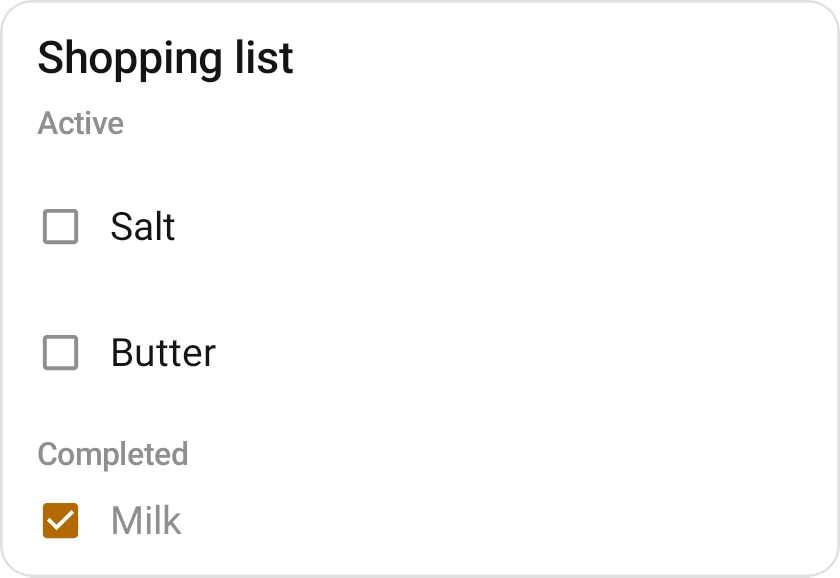
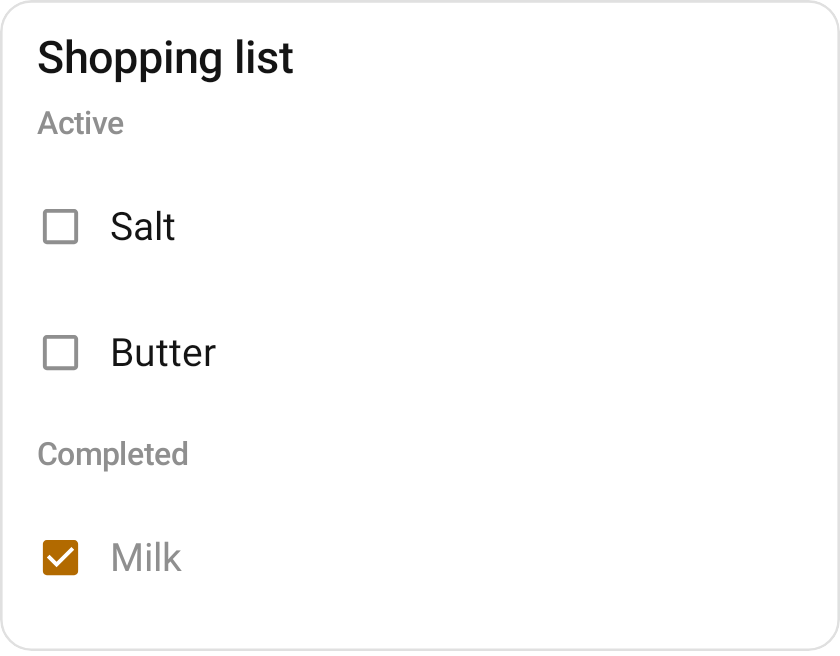
fix(cards): size the to-do card hint from its rows
naturalHeightDp was a flat 220dp, so a host capturing at the hint
clipped lists whose 48dp rows ran past it. Compute it from the title,
section captions and item rows, and grow the to-do previews to the
card's height.

Claude-Session: https://claude.ai/code/session_01Ki46Hoon14u8HBTA815hh9

diff --git a/rc-converter/src/test/kotlin/ee/schimke/ha/rc/CardTouchTargetTest.kt b/rc-converter/src/test/kotlin/ee/schimke/ha/rc/CardTouchTargetTest.kt
@@ -16,6 +16,7 @@ import androidx.compose.ui.unit.dp
 import ee.schimke.ha.model.CardConfig
 import ee.schimke.ha.model.EntityState
 import ee.schimke.ha.model.HaSnapshot
+import ee.schimke.ha.rc.cards.TodoListCardConverter
 import ee.schimke.ha.rc.cards.defaultRegistry
 import ee.schimke.ha.rc.components.ProvideHaTheme
 import ee.schimke.ha.rc.components.ThemeStyle
@@ -76,6 +77,18 @@ class CardTouchTargetTest {
                   }
                 ),
             ),
+            state(
+              "todo.chores",
+              "4",
+              name("Chores"),
+              "items" to
+                JsonArray(
+                  listOf("Bins", "Dishes", "Laundry", "Plants", "Hoover").mapIndexed { i, s ->
+                    val st = if (i < 4) "needs_action" else "completed"
+                    JsonObject(mapOf("summary" to JsonPrimitive(s), "status" to JsonPrimitive(st)))
+                  }
+                ),
+            ),
             state("light.living_room_lamp", "on", name("Lamp")),
             state("light.kitchen_lights", "off", name("Kitchen")),
             state(
@@ -107,7 +120,7 @@ class CardTouchTargetTest {
     compose.setContent {
       Box(Modifier.background(Color.White).width(381.dp)) {
         CachedCardPreview(
-          cacheKey = "touch-target-${card.type}",
+          cacheKey = "touch-target-${card.raw}",
           profile = androidXExperimentalWrap,
           card = card,
           snapshot = snapshot,
@@ -156,6 +169,17 @@ class CardTouchTargetTest {
       """{"type":"todo-list","entity":"todo.shopping","title":"Shopping list"}""",
       2,
     )
+
+  @Test
+  fun todoListSizeHintHoldsEveryRow() {
+    val card = card("""{"type":"todo-list","entity":"todo.chores","title":"Chores"}""")
+    val hint = TodoListCardConverter().naturalHeightDp(card, snapshot)
+    tapTargets(card)
+    val root = compose.onRoot().fetchSemanticsNode()
+    val drawnDp = root.size.height / root.layoutInfo.density.density
+    assertTrue(drawnDp <= hint, "five 48dp rows (${drawnDp}dp) fit the ${hint}dp size hint")
+    assertTrue(hint - drawnDp < 12f, "the ${hint}dp size hint is close to the card (${drawnDp}dp)")
+  }
 
   @Test
   fun entitiesRows() =

diff --git a/rc-converter/src/main/kotlin/ee/schimke/ha/rc/cards/TodoListCardConverter.kt b/rc-converter/src/main/kotlin/ee/schimke/ha/rc/cards/TodoListCardConverter.kt
@@ -20,6 +20,7 @@ import ee.schimke.ha.rc.cardEntityIds
 import ee.schimke.ha.rc.components.HaAction
 import ee.schimke.ha.rc.components.HaTodoItem
 import ee.schimke.ha.rc.components.HaTodoListData
+import ee.schimke.ha.rc.components.MinTouchTargetDp
 import ee.schimke.ha.rc.components.RemoteHaTodoList
 import ee.schimke.ha.rc.components.RemoteHaTodoListIdentity
 import kotlinx.serialization.json.JsonArray
@@ -45,7 +46,20 @@ class TodoListCardConverter : CardConverter {
   override fun dataSignature(card: CardConfig, snapshot: HaSnapshot): String =
     cardDataSignature(cardEntityIds(card), snapshot)
 
-  override fun naturalHeightDp(card: CardConfig, snapshot: HaSnapshot): Int = 220
+  /**
+   * The card's height for its items: 12dp insets, the title, and each non-empty section's caption
+   * over its 48dp item rows (touch targets stacked edge to edge), 8dp apart. A host that captures
+   * at this height shows every row.
+   */
+  override fun naturalHeightDp(card: CardConfig, snapshot: HaSnapshot): Int {
+    val data = todoData(card, snapshot)
+    val sections =
+      listOf(data.activeItems.size, data.completedItems.size)
+        .filter { it > 0 }
+        .sumOf { rows -> GAP_DP + CAPTION_DP + GAP_DP + rows * MinTouchTargetDp }
+    val body = if (sections > 0) sections else GAP_DP + EMPTY_LABEL_DP
+    return INSETS_DP + TITLE_DP + body
+  }
 
   /**
    * A to-do list renders from a card design: how many items are active and completed is the
@@ -215,3 +229,12 @@ private fun todoData(card: CardConfig, snapshot: HaSnapshot): HaTodoListData {
   }
   return HaTodoListData(title = title, activeItems = active, completedItems = completed)
 }
+
+// RemoteHaTodoList's layout, for naturalHeightDp: vertical insets, the line heights of the 17sp
+// title (20dp), the 12sp section caption (14dp) and the 13sp "No items" label (16dp), each with 2dp
+// to spare for a taller theme typeface, and the column's gap.
+private const val INSETS_DP = 24
+private const val TITLE_DP = 22
+private const val CAPTION_DP = 16
+private const val EMPTY_LABEL_DP = 18
+private const val GAP_DP = 8

diff --git a/previews/src/main/kotlin/ee/schimke/ha/previews/CardPreviews.kt b/previews/src/main/kotlin/ee/schimke/ha/previews/CardPreviews.kt
@@ -1141,14 +1141,14 @@ private fun mediaControlCard() =
 
 // ——— todo-list ———
 
-@Preview(name = "todo-list (light)", showBackground = false, widthDp = 320, heightDp = 220)
+@Preview(name = "todo-list (light)", showBackground = false, widthDp = 320, heightDp = 250)
 @Composable
 fun TodoList_Light() =
   CardHost(HaTheme.Light) {
     RenderChild(todoListCard(), Fixtures.shoppingList, RemoteModifier.fillMaxWidth())
   }
 
-@Preview(name = "todo-list (dark)", showBackground = false, widthDp = 320, heightDp = 220)
+@Preview(name = "todo-list (dark)", showBackground = false, widthDp = 320, heightDp = 250)
 @Composable
 fun TodoList_Dark() =
   CardHost(HaTheme.Dark) {

diff --git a/docs/design/evidence/card-touch-targets/README.md b/docs/design/evidence/card-touch-targets/README.md
@@ -7,7 +7,7 @@ The accessibility report on #881 flagged touch targets under 48dp in these previ
 | --- | --- | --- | --- |
 | Media control | ![](mediacontrol-before.png) | ![](mediacontrol-after.png) | Transport buttons are 48dp targets around the same 32/40dp buttons; the row pulls in by the difference, so they draw in place (the row is 2dp taller). Labelled Previous / Play or Pause / Next. |
 | Picture glance | ![](pictureglance-before.png) | ![](pictureglance-after.png) | Entity cells are 48dp targets around the same 32dp cell, filling the strip's vertical inset; same positions. The cells draw as the circles their shape asks for (`clickable` ahead of `clip` had made them rounded squares). |
-| To-do list | ![](todolist-before.png) | ![](todolist-after.png) | Item rows are 48dp tall (HA's list row height), up from ~26dp: the one visible layout change. |
+| To-do list | ![](todolist-before.png) | ![](todolist-after.png) | Item rows are 48dp tall (HA's list row height), up from ~26dp: the one visible layout change. The card's size hint (`naturalHeightDp`) now follows its rows instead of a flat 220dp, and the preview grows to 250dp. |
 | Entities | ![](entities-before.png) | ![](entities-after.png) | The row is the tap target; its switch no longer takes a separate 36 × 22dp tap for the same action. The preview canvas grows to the card's natural height (it was clipping the last row). |
 | Dashboard | ![](dashboard-before.png) | ![](dashboard-after.png) | The entities slot grows to the card's natural 148dp (it was squeezing the rows to 42dp). |
 
